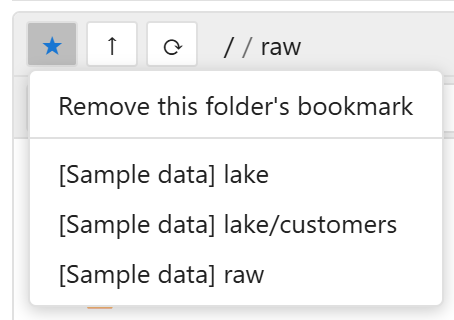
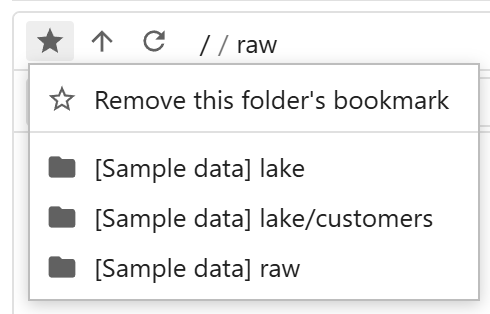
Docs: screenshots of the new look
All screenshots in docs/figs retaken with the JupyterLab-like style (#56)
and the selection's size in the status bar (#58); the widths of those
whose size changed updated.

Claude-Session: https://claude.ai/code/session_01HAwtBQoU26mZV3X6NRDYj5

Changed region(s): [[0.0, 0.0573, 1.0, 1.0]]

diff --git a/docs/storage-explorer.md b/docs/storage-explorer.md
@@ -101,7 +101,7 @@ below the list, or Esc, closes it.
 Preview as, Edit, Python code to load the data, Copy URL; Copy, Cut, Paste; Create a folder, Rename, Delete; Download
 to local or to JupyterLab; Properties, Add bookmark.
 
-<img src="figs/using-right-click.png" width="367" alt="The right-click menu of a JSON Lines file">
+<img src="figs/using-right-click.png" width="384" alt="The right-click menu of a JSON Lines file">
 
 ### Properties
 
@@ -115,7 +115,7 @@ of files and folders, their total size, and the oldest and newest files.
 Right-click a folder → **Add bookmark**. ☆ lists them; click one to open it, right-click it for Copy URL and Delete
 bookmark.
 
-<img src="figs/using-bookmarks.png" width="227" alt="The bookmarks menu">
+<img src="figs/using-bookmarks.png" width="245" alt="The bookmarks menu">
 
 ### Copy, cut and paste
 

diff --git a/docs/data-explorer.md b/docs/data-explorer.md
@@ -56,7 +56,7 @@ widths).
 At the top right: query the data itself, or its first 100,000 rows read into memory (faster, but filters and sorting
 apply to those rows only). Eager data, such as pandas', is always in memory.
 
-<img src="figs/browser-mode.png" width="221" alt="Live and In memory, with In memory on">
+<img src="figs/browser-mode.png" width="217" alt="Live and In memory, with In memory on">
 
 ## The result in code
 
